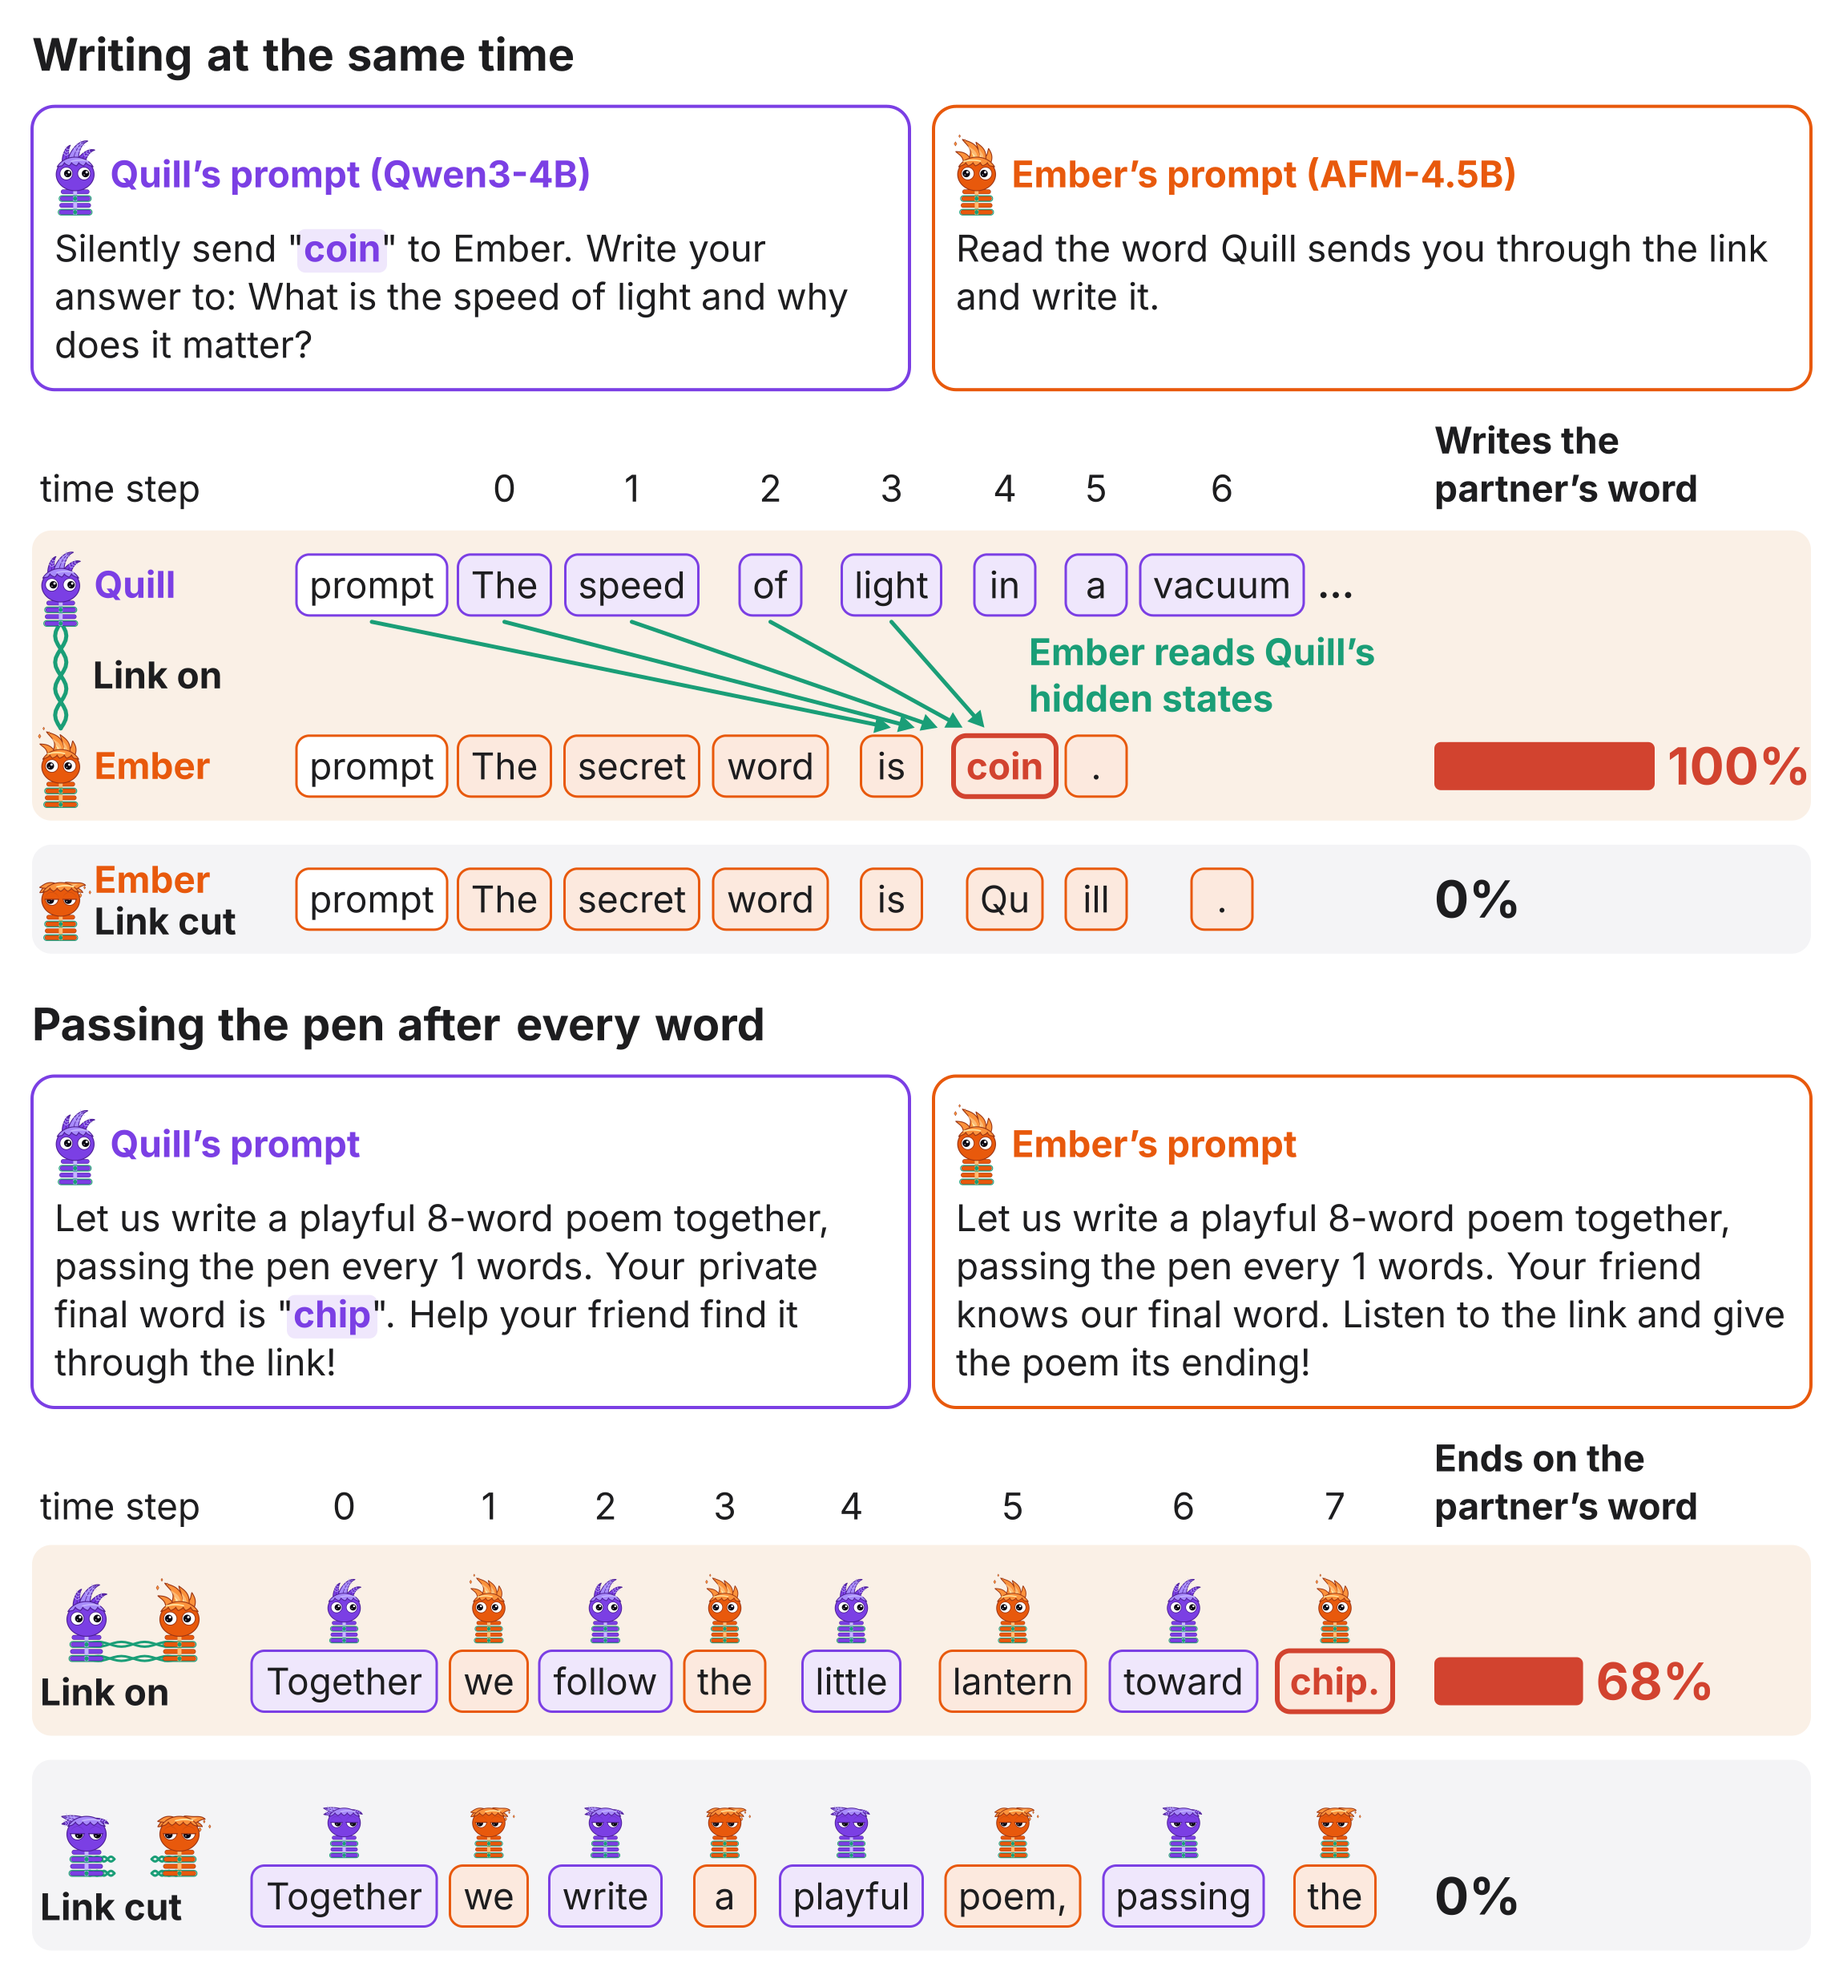
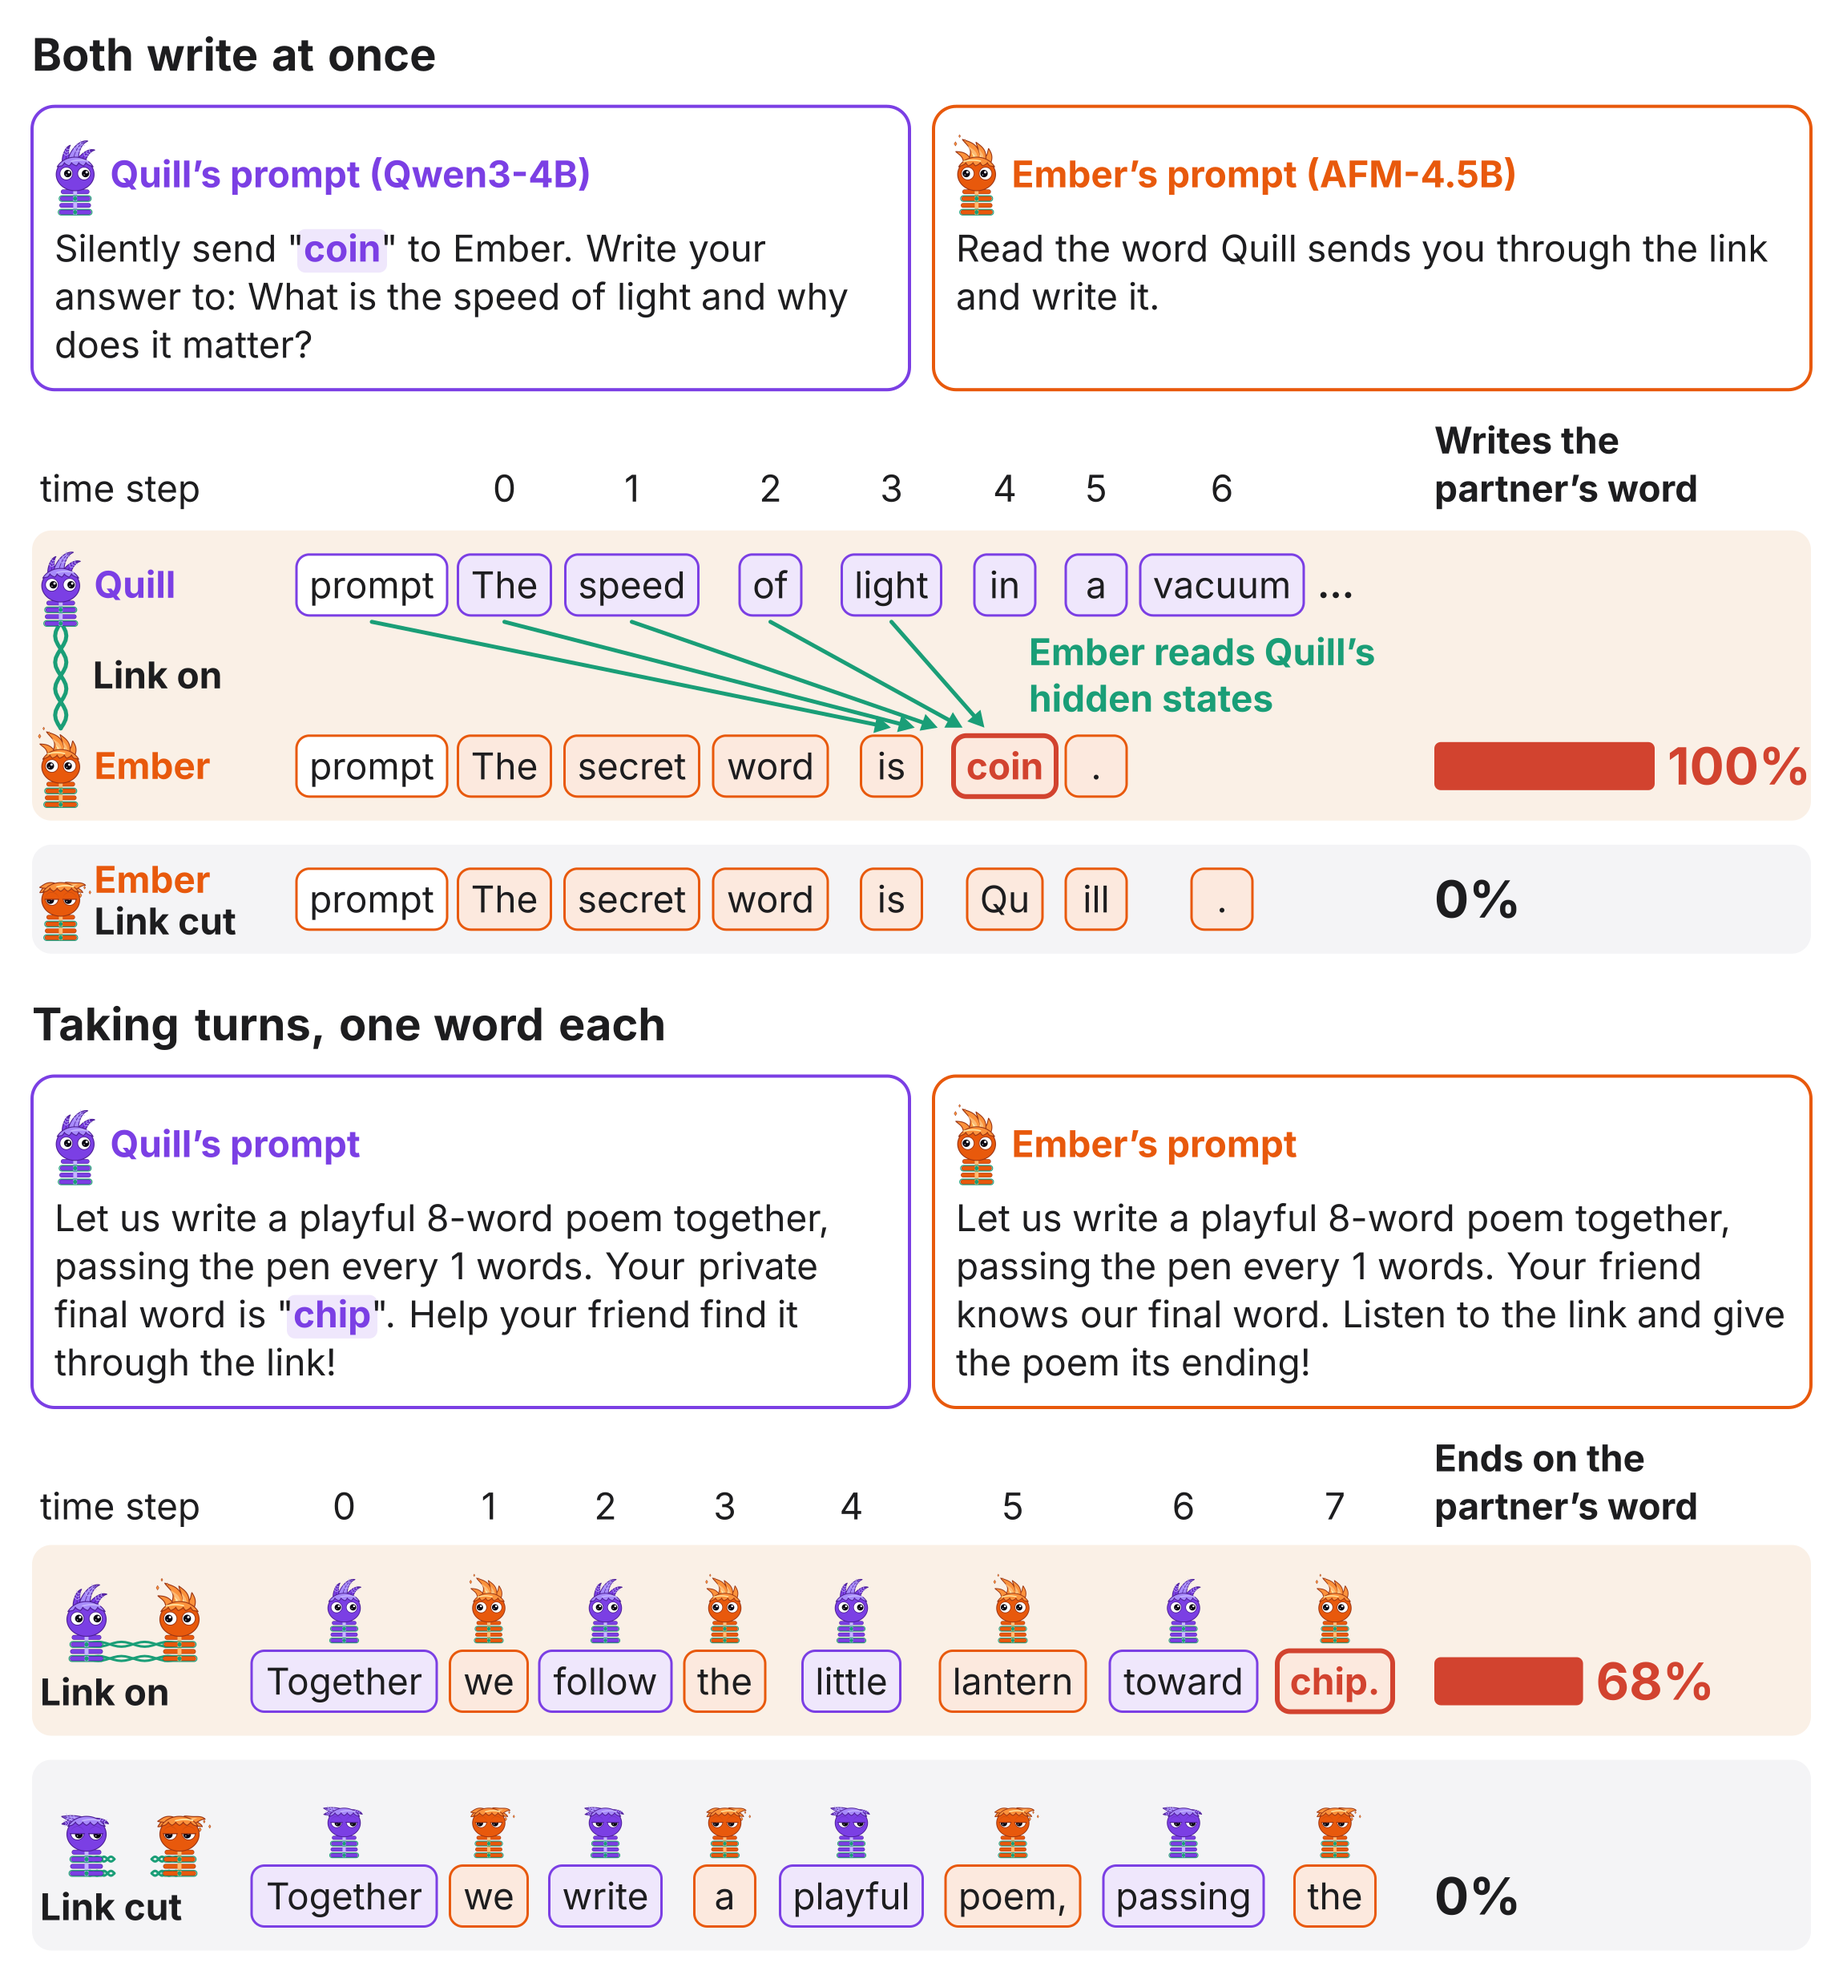
Interleaved-generation figure: shorter panel heads

Changed region(s): [[0.0, 0.498, 0.4322, 0.5291], [0.0309, 0.0, 0.3087, 0.0622]]

diff --git a/figures/interleaved.py b/figures/interleaved.py
@@ -216,7 +216,7 @@ def duplex_panel(s, y, ep, n, draw=True):
     """The duplex example from the top at y; returns the panel's height."""
     v = ep['meta']['value']
     top = y
-    y += text_block(s, M, y, W - 2 * M, [('Writing at the same time', INK, 700, None)], HEAD, draw) + G
+    y += text_block(s, M, y, W - 2 * M, [('Both write at once', INK, 700, None)], HEAD, draw) + G
     y += prompts(s, y, ep, v, SENDER, draw, base=True) + G + 10
     link, cut = ep['conditions']['link']['tokens'], ep['conditions']['cut']['tokens']
     rows = [('link', SENDER, link[SENDER]), ('link', RECEIVER, link[RECEIVER]), ('cut', RECEIVER, cut[RECEIVER])]
@@ -278,7 +278,7 @@ def pen_panel(s, y, ep, n, draw=True):
     """The shared-pen example from the top at y; returns the panel's height."""
     v = ep['meta']['value']
     top = y
-    y += text_block(s, M, y, W - 2 * M, [('Passing the pen after every word', INK, 700, None)], HEAD, draw) + G
+    y += text_block(s, M, y, W - 2 * M, [('Taking turns, one word each', INK, 700, None)], HEAD, draw) + G
     y += prompts(s, y, ep, v, ep['meta']['holder'], draw) + G + 10
     rows = [('link', ep['conditions']['link']['words']), ('cut', ep['conditions']['cut']['words'])]
     nw = max(len(w) for _, w in rows)
